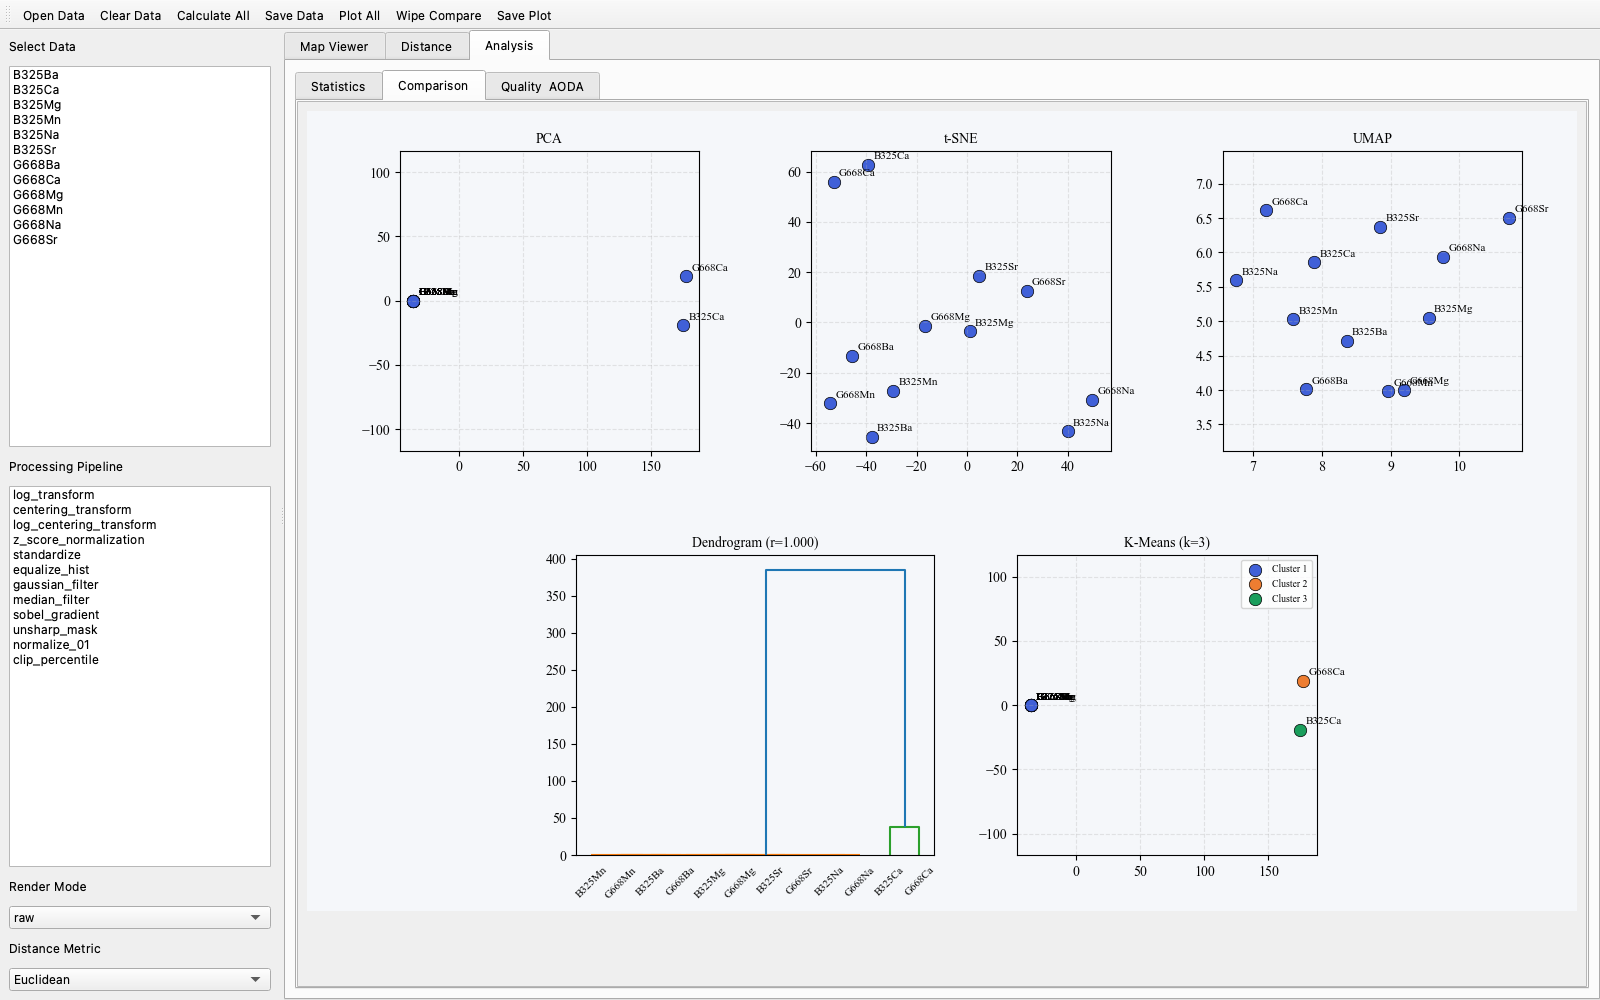
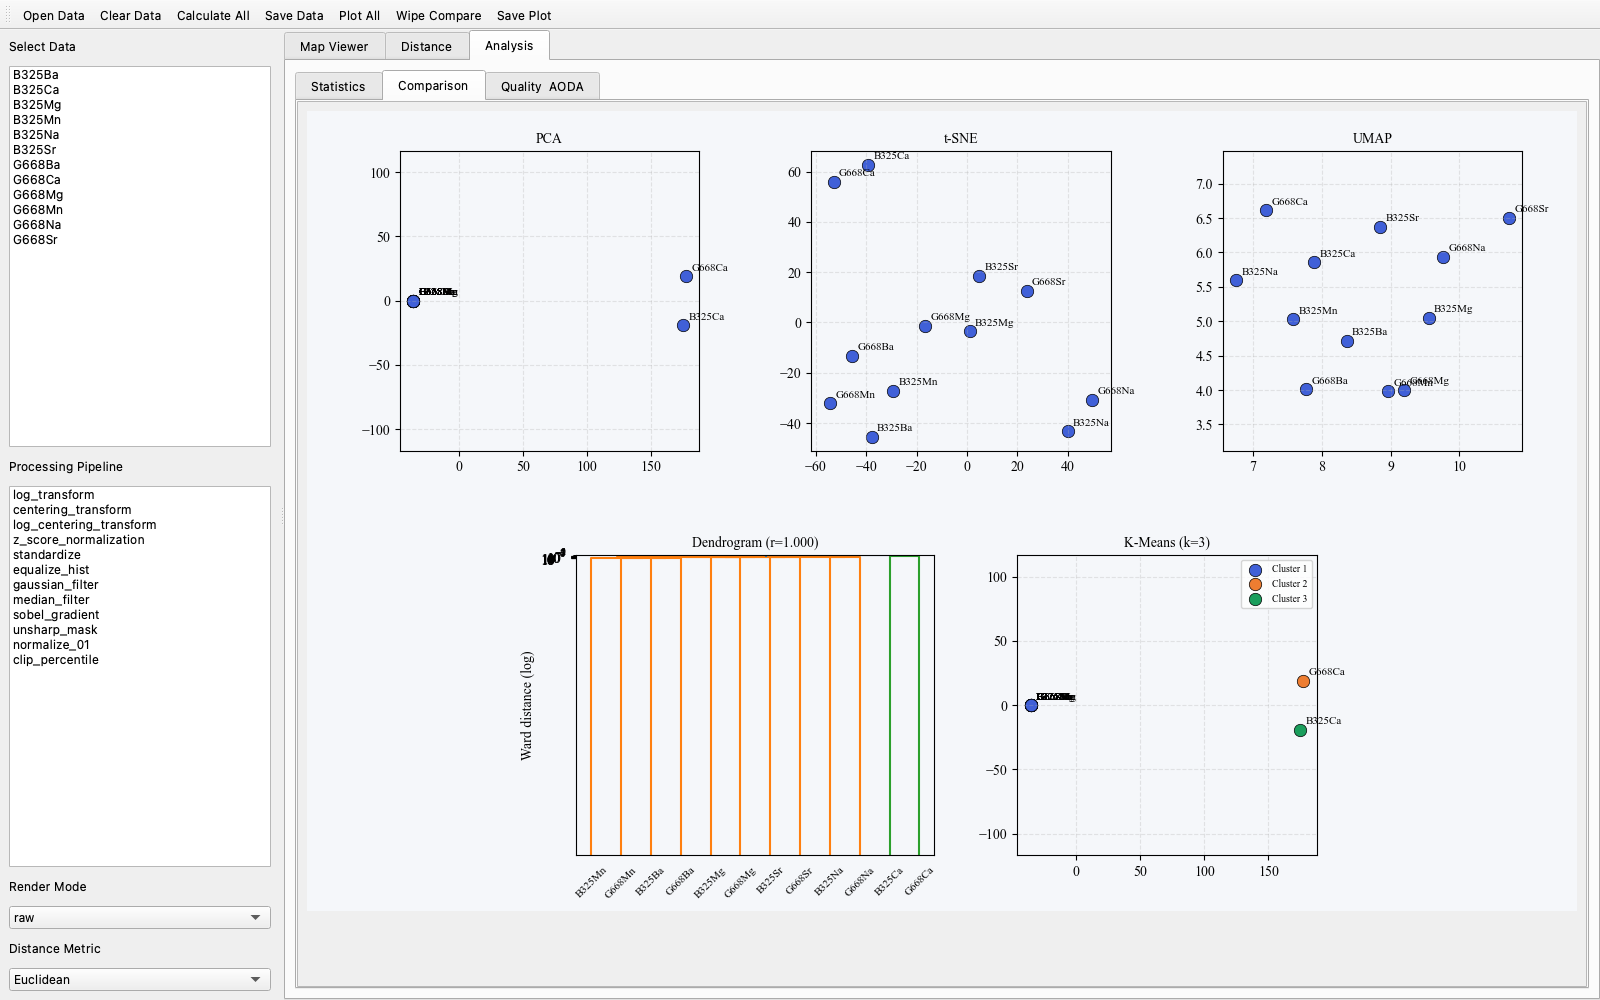
v1.3.3: dendrogram y-axis log scale for better small-distance discrimination

Changed region(s): [[0.4375, 0.558, 0.5625, 0.589], [0.3125, 0.651, 0.375, 0.713], [0.3438, 0.62, 0.375, 0.651]]

diff --git a/cpsvisualizer/src/cpsvisualizer/app.py b/cpsvisualizer/src/cpsvisualizer/app.py
@@ -1127,6 +1127,8 @@ class CPSVisualizer(QMainWindow):
             if hier.get('linkage') is not None:
                 dendrogram(hier['linkage'], labels=names, ax=ax_dendro,
                            leaf_rotation=45, leaf_font_size=8)
+                ax_dendro.set_yscale('log')
+                ax_dendro.set_ylabel('Ward distance (log)')
                 ax_dendro.set_title(
                     f"Dendrogram (r={hier['cophenetic_correlation']:.3f})",
                     fontsize=10)

diff --git a/cpsvisualizer/src/setup.py b/cpsvisualizer/src/setup.py
@@ -15,7 +15,7 @@ except Exception:
 
 setup(
     name='cpsvisualizer',
-    version='1.3.2',
+    version='1.3.3',
     description='CPS-Visualizer: Visualization, similarity measurement, and statistical analysis of LA-ICP-MS surface scan data.',
     long_description=README,
     long_description_content_type='text/markdown',
